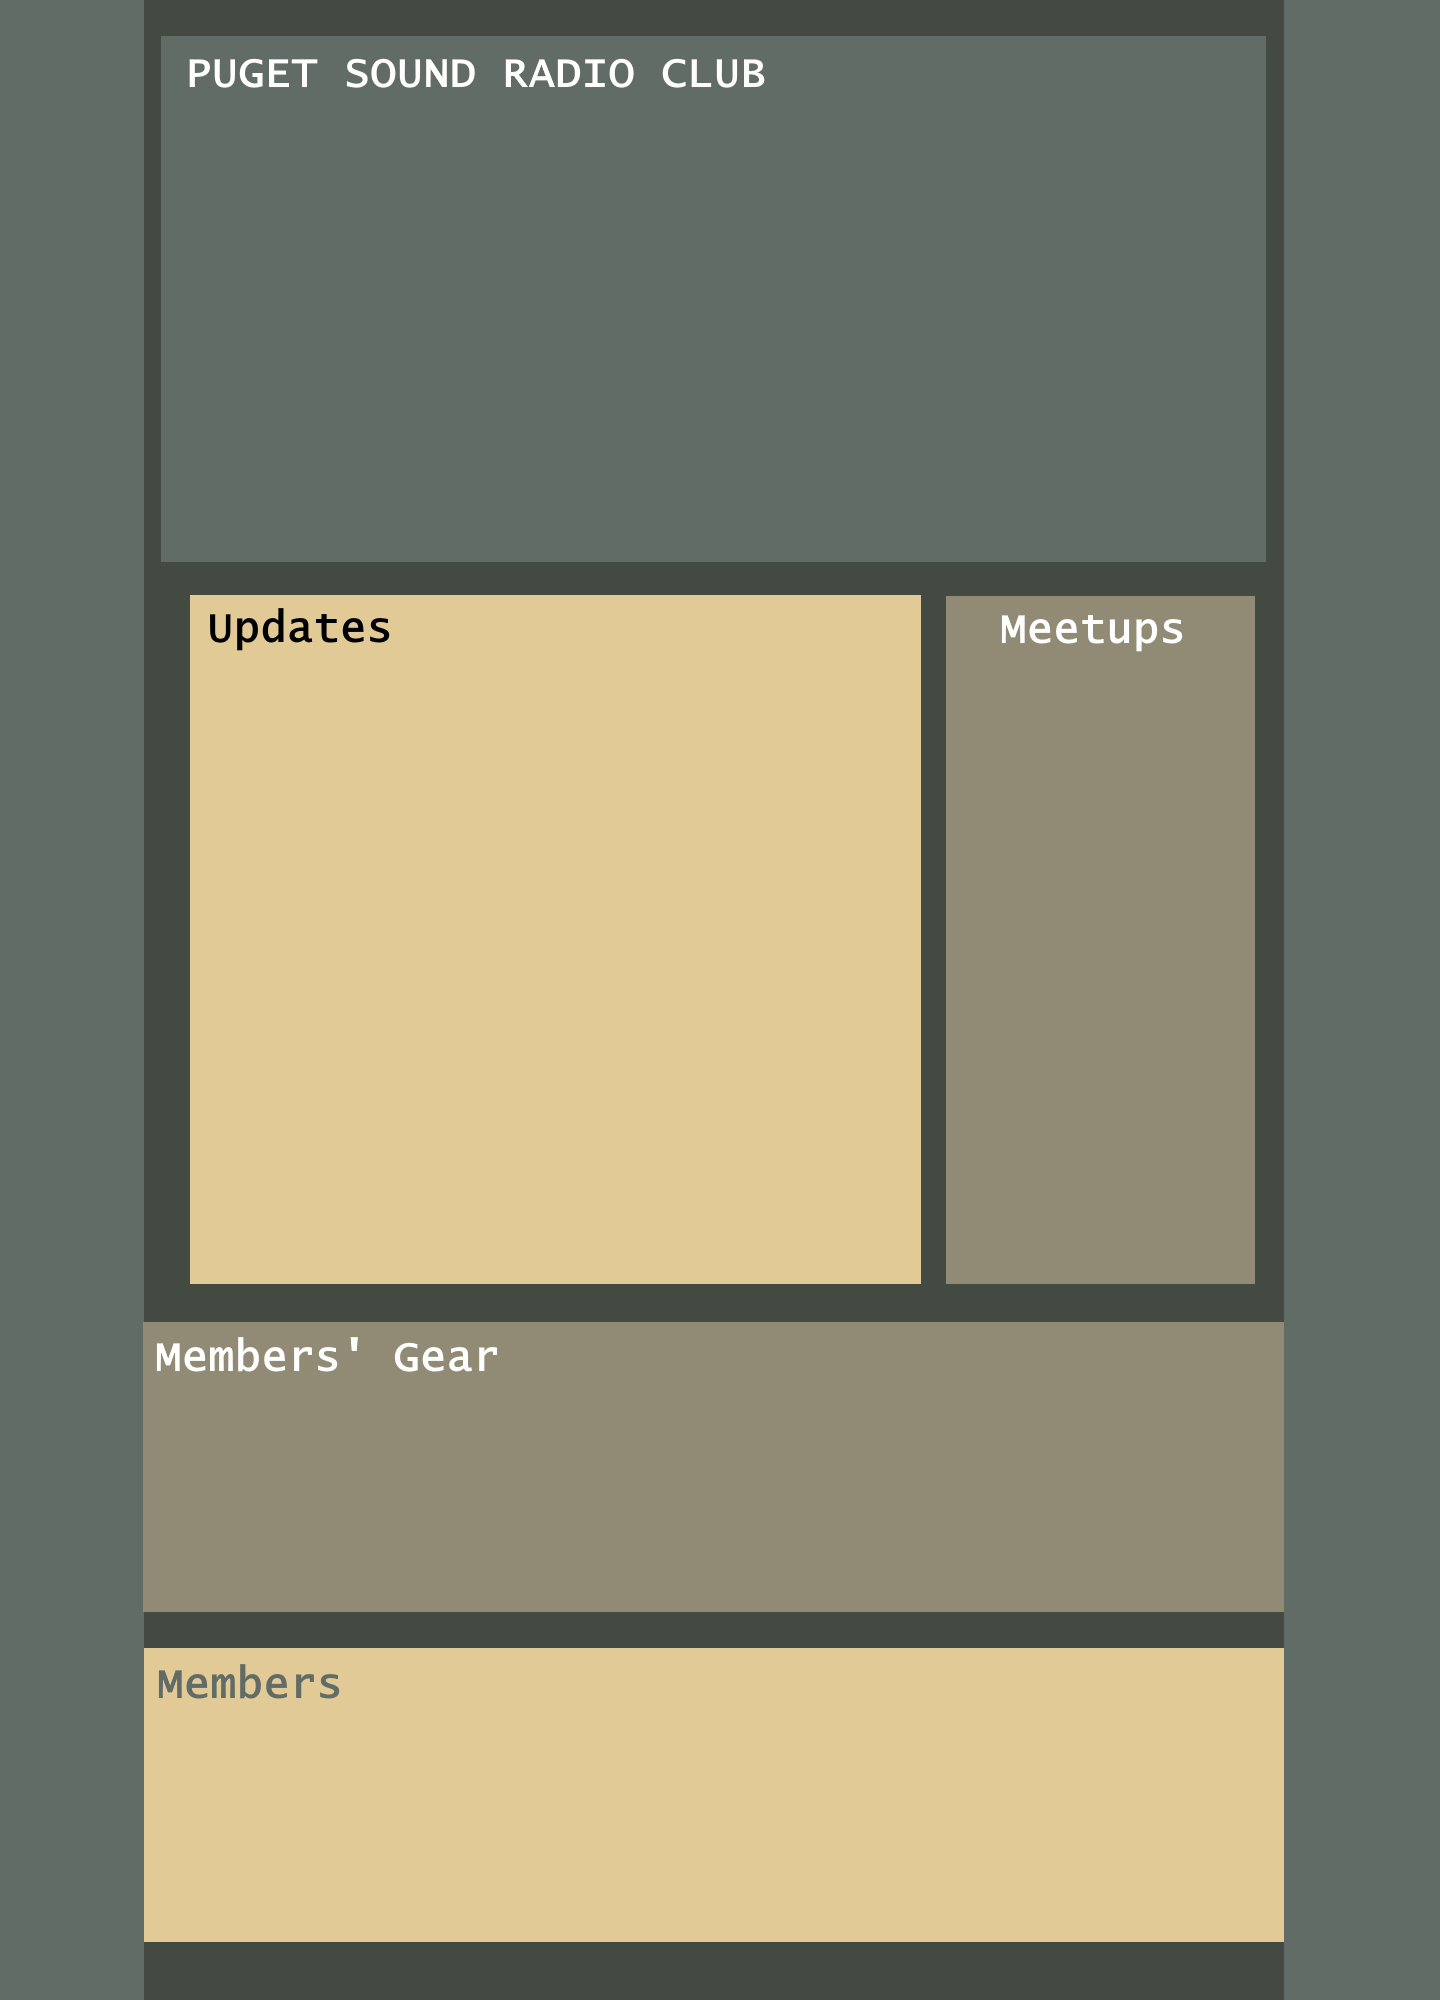
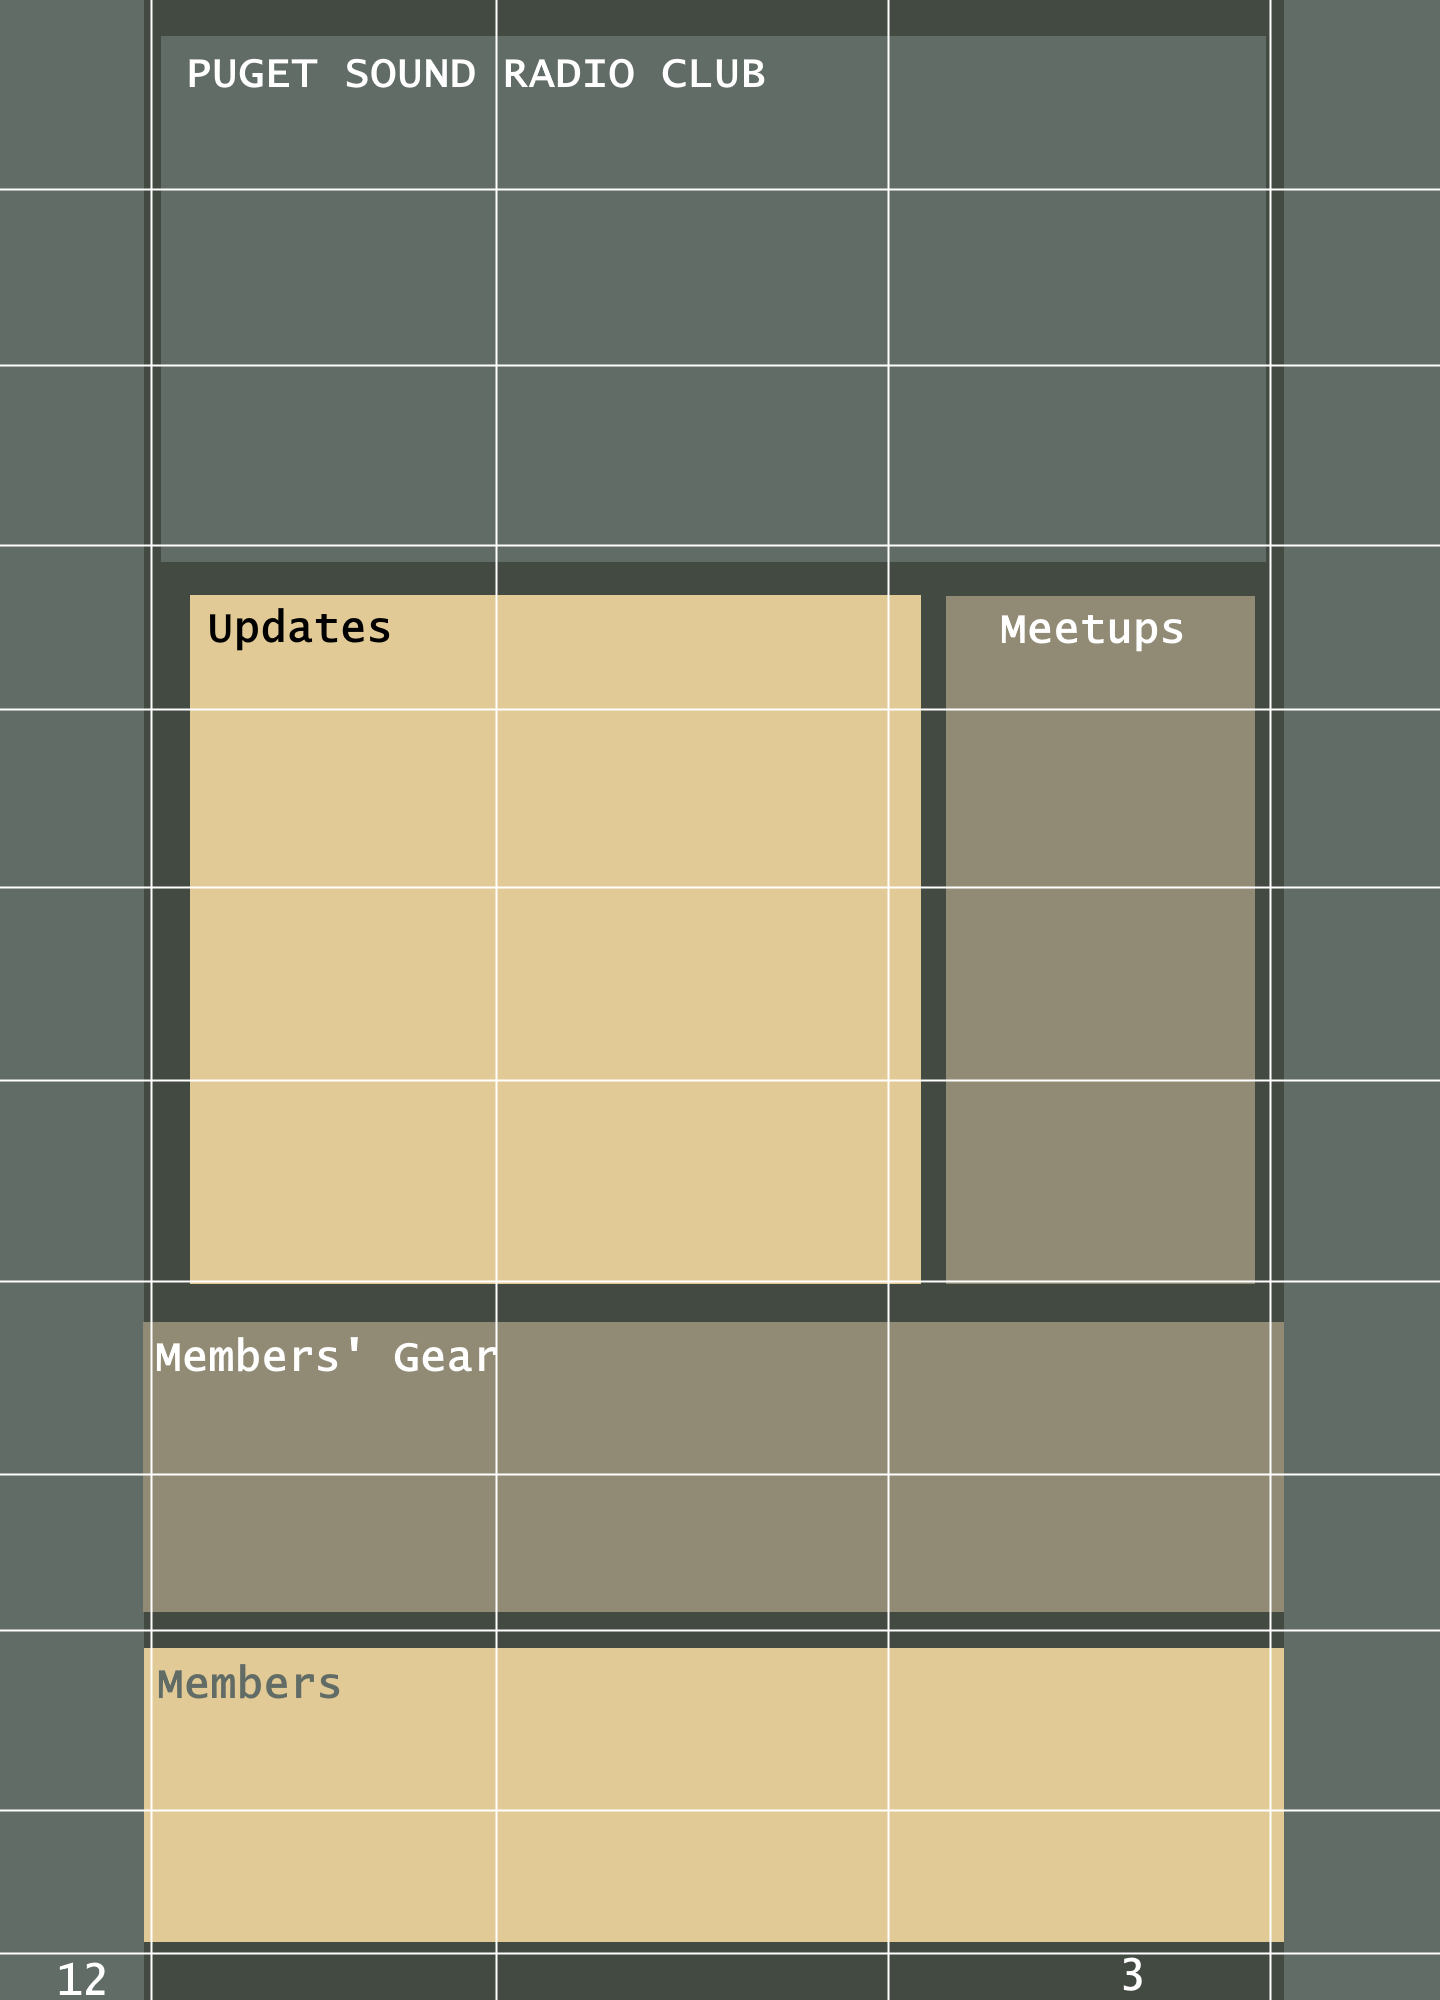
css fleshing out

diff --git a/index.html b/index.html
@@ -10,45 +10,47 @@
     <title>PUGET SOUND RADIO CLUB</title>
   </head>
   <body>
-    <header>
-      <div id="title">PUGET SOUND RADIO CLUB</div>
-    </header>
+    <div class="gridwrapper">
+      <header>
+        <div id="title">PUGET SOUND RADIO CLUB</div>
+        </header>
 
-    <section id="updates">
-    <p>Updates</p>
-      <ul>
-        <li>Update 1</li>
-        <li>Update 2</li>
-        <li>Update 3</li>
-        <li>Update 4</li>
-        <li>Update 5</li>
-      </ul>
-    </section>
-
-    <section id="meetups">
-      <p>Meetups, 9AM</p>
+        <section id="updates">
+        <h1>Updates</h1>
         <ul>
-          <li>2021-04-09 - Fred Meyer Covington</li>
-          <li>2021-04-23 - Fred Meyer Maple Valley</li>
-          <li>2021-05-07 - Fred Meyer Covington</li>
-          <li>2021-05-22 - Fred Meyer Maple Valley</li>
+            <li>Update 1</li>
+            <li>Update 2</li>
+            <li>Update 3</li>
+            <li>Update 4</li>
+            <li>Update 5</li>
         </ul>
-    </section>
+        </section>
 
-    <section id="membergear">
-      <div class="gearimg"><img src="assets/scope1.png"></div>
-      <div class="gearimg"><img src="assets/antenna1.png"></div>
-      <div class="gearimg"><img src="assets/antenna2.png"></div>
-      <div class="gearimg"><img src="assets/antenna3.png"></div>
-    </section>
-    <section id="members">
-      <div class="memberimg"><img src="assets/member1.png"></div>
-      <div class="memberimg"><img src="assets/member2.png"></div>
-      <div class="memberimg"><img src="assets/member3.png"></div>
-    </section>
+        <section id="meetups">
+        <h1>Meetups, 9AM</h1>
+            <ul>
+            <li>2021-04-09 - Fred Meyer Covington</li>
+            <li>2021-04-23 - Fred Meyer Maple Valley</li>
+            <li>2021-05-07 - Fred Meyer Covington</li>
+            <li>2021-05-22 - Fred Meyer Maple Valley</li>
+            </ul>
+        </section>
 
-    <footer>
-        &#169 2021
-    </footer>
+        <section id="membergear">
+        <div class="gearimg"><img src="assets/scope1.png"></div>
+        <div class="gearimg"><img src="assets/antenna1.png"></div>
+        <div class="gearimg"><img src="assets/antenna2.png"></div>
+        <div class="gearimg"><img src="assets/antenna3.png"></div>
+        </section>
+        <section id="members">
+        <div class="memberimg"><img src="assets/member1.png"></div>
+        <div class="memberimg"><img src="assets/member2.png"></div>
+        <div class="memberimg"><img src="assets/member3.png"></div>
+        </section>
+
+        <footer>
+            &#169 2021
+        </footer>  
+    </div>
   </body>
 </html>

diff --git a/styles.css b/styles.css
@@ -1,0 +1,72 @@
+html {
+    background-color: #626c66;
+    display: flex;
+    justify-content: center;
+}
+
+.wrapper {
+    display: grid;
+    grid-gap: 1em;
+    grid-template-columns: repeat(3, 1fr);
+    grid-template-rows: repeat(12, 10vh);
+    grid-template-areas:
+        "title title title"
+        "title title title"
+        "title title title"
+        "updates updates meetups"
+        "updates updates meetups"
+        "updates updates meetups"
+        "updates updates meetups"
+        "membergear membergear membergear"
+        "membergear membergear membergear"
+        "members members members"
+        "members members members"
+        "footer footer footer";
+}
+
+body {
+    font-size: 1.25em;
+    font-family: 'Arvo', serif;
+    margin: 1em;
+    background-color: #424a42;
+    max-width: 1140px;
+}
+
+#title {
+    font-size: 2.5em;
+    font-family: 'JetBrains Mono', monospace;
+    font-weight: 700;
+    background-image: url(assets/title.png);
+    background-size: contain;
+    background-repeat: no-repeat;
+    height: 400px;
+    grid-area: title;
+}
+
+h1 {
+    font-size: 1.75em;
+    font-family: 'JetBrains Mono', monospace;
+}
+
+#updates {
+    grid-area: updates;
+}
+
+#meetups {
+    grid-area: meetups;
+}
+
+#membergear {
+    grid-area: membergear;
+}
+
+#members {
+    grid-area: members;
+}
+
+footer {
+    grid-area: footer;
+}
+
+
+
